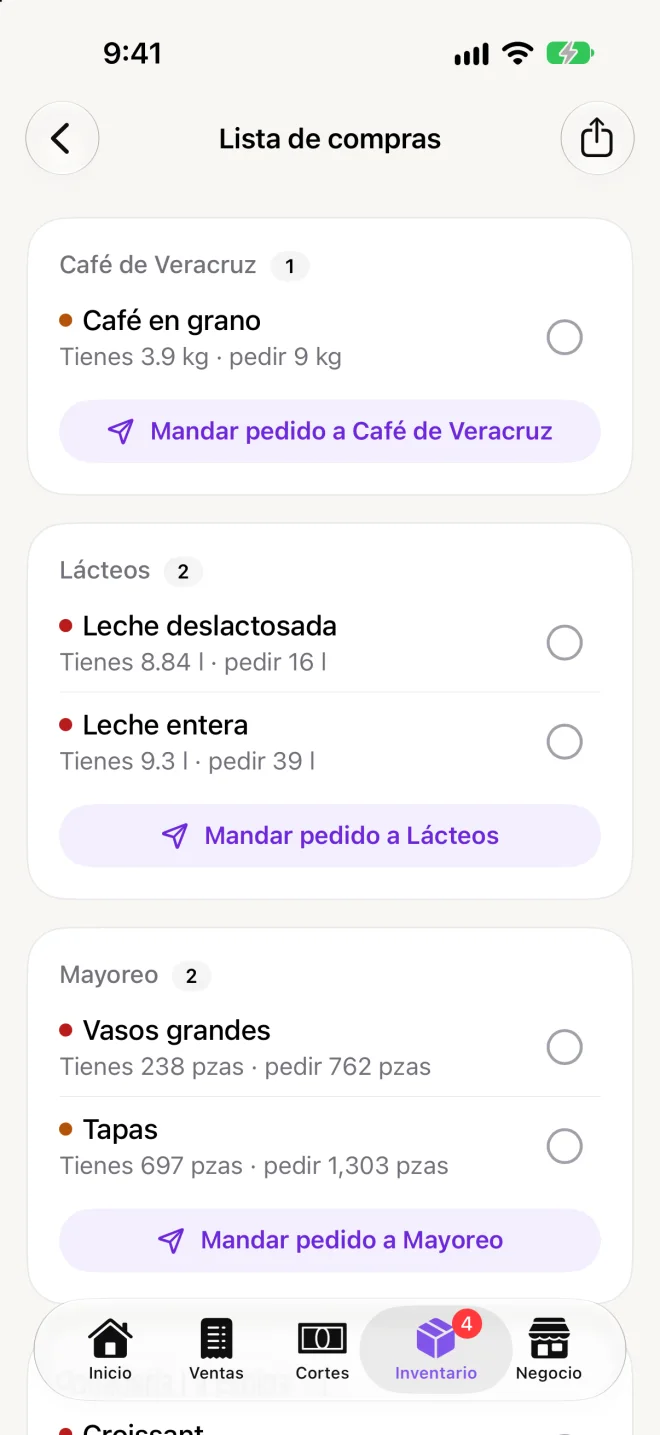
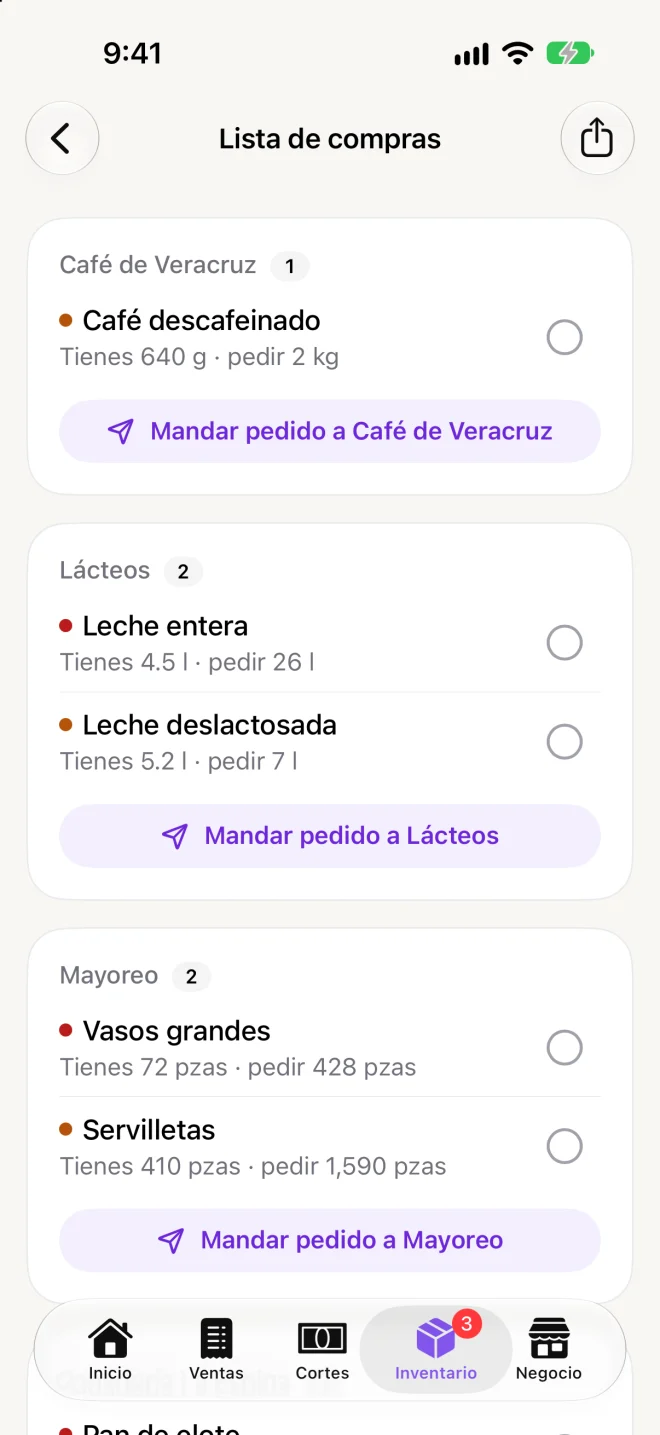
Refresh POSMe for iPhone screens to version 1.6 and match the share image to LinkedIn
The share image drops the purple wash and mirrors the LinkedIn banner.
All six POSMe for iPhone screens now come from the current app in demo
mode (MOPA Coffee), and the home widget matches the new numbers.

diff --git a/scripts/og/og.html b/scripts/og/og.html
@@ -4,58 +4,67 @@
 <meta charset="utf-8" />
 <link href="https://fonts.googleapis.com/css2?family=JetBrains+Mono:wght@500&family=Outfit:wght@400;500;600;700&display=swap" rel="stylesheet" />
 <style>
+  /* Share image (public/og.png). Mirrors the LinkedIn banner: neutral near-black, no color washes. */
   * { margin: 0; padding: 0; box-sizing: border-box; }
   html, body { width: 1200px; height: 630px; overflow: hidden; background: #09090b; }
   .og {
     position: relative; width: 1200px; height: 630px; overflow: hidden;
     font-family: 'Outfit', system-ui, sans-serif; color: #fafafa;
     background:
-      radial-gradient(48% 70% at 82% 8%, rgba(139, 92, 246, 0.42), transparent 70%),
-      radial-gradient(38% 60% at 100% 100%, rgba(255, 122, 122, 0.22), transparent 70%),
+      radial-gradient(42% 60% at 12% 0%, rgba(45, 212, 191, 0.13), transparent 70%),
+      radial-gradient(40% 55% at 88% 100%, rgba(56, 189, 248, 0.08), transparent 70%),
       #09090b;
   }
-  .copy { position: absolute; left: 72px; top: 150px; width: 560px; }
+  .og::before {
+    content: ''; position: absolute; inset: 0; opacity: 0.5;
+    background-image: radial-gradient(rgba(255, 255, 255, 0.07) 1px, transparent 1px);
+    background-size: 14px 14px;
+    mask-image: linear-gradient(90deg, #000, transparent 70%);
+  }
+  .copy { position: absolute; left: 72px; top: 118px; width: 600px; }
   .eyebrow {
     font-family: 'JetBrains Mono', ui-monospace, monospace; font-weight: 500;
-    font-size: 17px; letter-spacing: 0.2em; color: #a78bfa; text-transform: uppercase;
+    font-size: 16px; letter-spacing: 0.2em; color: #71717a; text-transform: uppercase;
   }
-  h1 { margin-top: 20px; font-size: 92px; line-height: 0.95; font-weight: 700; letter-spacing: -0.045em; }
-  .tag { margin-top: 22px; font-size: 31px; line-height: 1.2; color: #a1a1aa; letter-spacing: -0.02em; }
-  .tag b { color: #fafafa; font-weight: 500; }
-  .chips { margin-top: 34px; display: flex; gap: 12px; }
-  .chip {
-    font-family: 'JetBrains Mono', ui-monospace, monospace; font-weight: 500; font-size: 17px;
-    padding: 11px 18px; border-radius: 999px; color: #e4e4e7;
-    background: rgba(255, 255, 255, 0.05); border: 1px solid rgba(255, 255, 255, 0.1);
-  }
-  .url {
-    position: absolute; left: 72px; bottom: 56px;
-    font-family: 'JetBrains Mono', ui-monospace, monospace; font-weight: 500; font-size: 18px; color: #a78bfa;
-  }
+  .eyebrow b { color: #e4e4e7; font-weight: 500; }
+  h1 { margin-top: 22px; font-size: 96px; line-height: 0.95; font-weight: 700; letter-spacing: -0.045em; }
+  .tag { margin-top: 24px; font-size: 38px; line-height: 1.08; font-weight: 600; letter-spacing: -0.035em; color: #fafafa; }
+  .tag span { color: #a1a1aa; }
+  .apps { position: absolute; left: 72px; bottom: 64px; display: flex; align-items: center; gap: 16px; }
+  .icons { display: flex; }
+  .icons img { width: 40px; height: 40px; border-radius: 10px; margin-left: -8px; box-shadow: 0 0 0 2px #09090b; background: #0b0b0f; object-fit: cover; }
+  .icons img:first-child { margin-left: 0; }
+  .apps p { font-size: 19px; font-weight: 500; color: #d4d4d8; letter-spacing: -0.01em; }
+  .apps p i { font-style: normal; color: #52525b; padding: 0 6px; }
   .phone {
-    position: absolute; width: 236px; aspect-ratio: 9 / 19.5; border-radius: 40px; padding: 7px;
+    position: absolute; aspect-ratio: 9 / 19.5; padding: 7px;
     background: linear-gradient(150deg, #3a3a42, #121216 45%, #26262c);
     box-shadow: 0 0 0 1px rgba(255, 255, 255, 0.1), 0 40px 80px -24px rgba(0, 0, 0, 0.9);
   }
-  .phone img { width: 100%; height: 100%; object-fit: cover; object-position: top; border-radius: 33px; display: block; }
-  .p1 { left: 690px; top: 64px; transform: rotate(-5deg); z-index: 2; }
-  .p2 { left: 900px; top: 118px; transform: rotate(5deg); z-index: 1; }
+  .phone img { width: 100%; height: 100%; object-fit: cover; object-position: top; display: block; }
+  .p1 { width: 250px; left: 800px; top: 56px; border-radius: 42px; z-index: 3; }
+  .p1 img { border-radius: 35px; }
+  .p2 { width: 204px; left: 664px; top: 150px; border-radius: 34px; transform: rotate(-6deg); z-index: 1; opacity: 0.92; }
+  .p3 { width: 204px; left: 984px; top: 150px; border-radius: 34px; transform: rotate(6deg); z-index: 2; opacity: 0.92; }
+  .p2 img, .p3 img { border-radius: 28px; }
 </style>
 </head>
 <body>
 <div class="og">
   <div class="copy">
-    <p class="eyebrow">iOS Engineer · Saltillo, MX · Remote</p>
+    <p class="eyebrow">iOS Engineer · <b>Founder of WalletMe + POSMe</b></p>
     <h1>Alan Gloria</h1>
-    <p class="tag">I build products people use, <b>and pay for.</b></p>
-    <div class="chips">
-      <span class="chip">6 apps on the App Store</span>
-      <span class="chip">POS live in real stores</span>
-    </div>
+    <p class="tag">I build products people use,<br /><span>and pay for.</span></p>
   </div>
-  <p class="url">www.alangloria.com</p>
-  <div class="phone p1"><img src="../../public/posme-iphone-inicio.webp" alt="" /></div>
+  <div class="apps">
+    <div class="icons">
+      <img src="../../public/posme-icon.webp" alt="" /><img src="../../public/raro-icon.webp" alt="" /><img src="../../public/word-icon.webp" alt="" /><img src="../../public/triplook-icon.webp" alt="" /><img src="../../public/remainingweeks-icon.webp" alt="" />
+    </div>
+    <p>6 apps on the App Store<i>·</i>alangloria.com</p>
+  </div>
   <div class="phone p2"><img src="../../public/raro-app-home.webp" alt="" /></div>
+  <div class="phone p3"><img src="../../public/word-01-home.webp" alt="" /></div>
+  <div class="phone p1"><img src="../../public/posme-iphone-inicio.webp" alt="" /></div>
 </div>
 </body>
 </html>

diff --git a/data/walletme.ts b/data/walletme.ts
@@ -114,8 +114,8 @@ export const POS_SCREENSHOTS: ScreenshotItem[] = [
 export const POSME_IPHONE_SCREENSHOTS: ScreenshotItem[] = [
   { src: '/posme-iphone-inicio.webp', alt: 'POSMe for iPhone home with today versus last week', label: 'Today' },
   { src: '/posme-iphone-ventas.webp', alt: 'POSMe for iPhone sales list per ticket', label: 'Sales' },
-  { src: '/posme-iphone-corte.webp', alt: 'POSMe for iPhone cash counts per branch and register, expected versus counted', label: 'Cash counts' },
-  { src: '/posme-iphone-inventario.webp', alt: 'POSMe for iPhone inventory with low-stock items per branch', label: 'Inventory' },
+  { src: '/posme-iphone-corte.webp', alt: 'POSMe for iPhone cash counts per register, with the ones that came out over or short', label: 'Cash counts' },
+  { src: '/posme-iphone-inventario.webp', alt: 'POSMe for iPhone inventory with low-stock items and how long each one lasts', label: 'Inventory' },
   { src: '/posme-iphone-compras.webp', alt: 'POSMe for iPhone shopping list grouped by supplier', label: 'Purchasing' },
   { src: '/posme-iphone-analisis.webp', alt: 'POSMe for iPhone AI monthly analysis report', label: 'Monthly report' },
   { src: '/posme-autofactura.webp', alt: 'Customer self-invoicing page opened from the ticket QR', label: 'Self-invoice' },

diff --git a/index.html b/index.html
@@ -19,7 +19,7 @@
     <meta property="og:image" content="https://www.alangloria.com/og.png" />
     <meta property="og:image:width" content="1200" />
     <meta property="og:image:height" content="630" />
-    <meta property="og:image:alt" content="Alan Gloria, iOS Engineer. POSMe for iPhone and Raro shown on two phones." />
+    <meta property="og:image:alt" content="Alan Gloria, iOS Engineer and founder of WalletMe + POSMe. POSMe for iPhone, Raro and WoRD on three phones." />
     <meta name="twitter:card" content="summary_large_image" />
     <meta name="twitter:title" content="Alan Gloria — iOS Engineer" />
     <meta name="twitter:description" content="iOS engineer and founder of WalletMe + POSMe, a point of sale live with businesses in Mexico, plus six iOS apps on the App Store." />

diff --git a/components/home/HeroPhone.tsx b/components/home/HeroPhone.tsx
@@ -169,8 +169,8 @@ export const HeroPhone: React.FC = () => {
                 </div>
                 <div className="hp-small hp-small-posme">
                   <p className="hp-small-app">POSMe · today</p>
-                  <p className="hp-small-number">$9,191</p>
-                  <p className="hp-small-label">+19% vs last week</p>
+                  <p className="hp-small-number">$8,051</p>
+                  <p className="hp-small-label">+20% vs last week</p>
                 </div>
               </div>
             </div>
